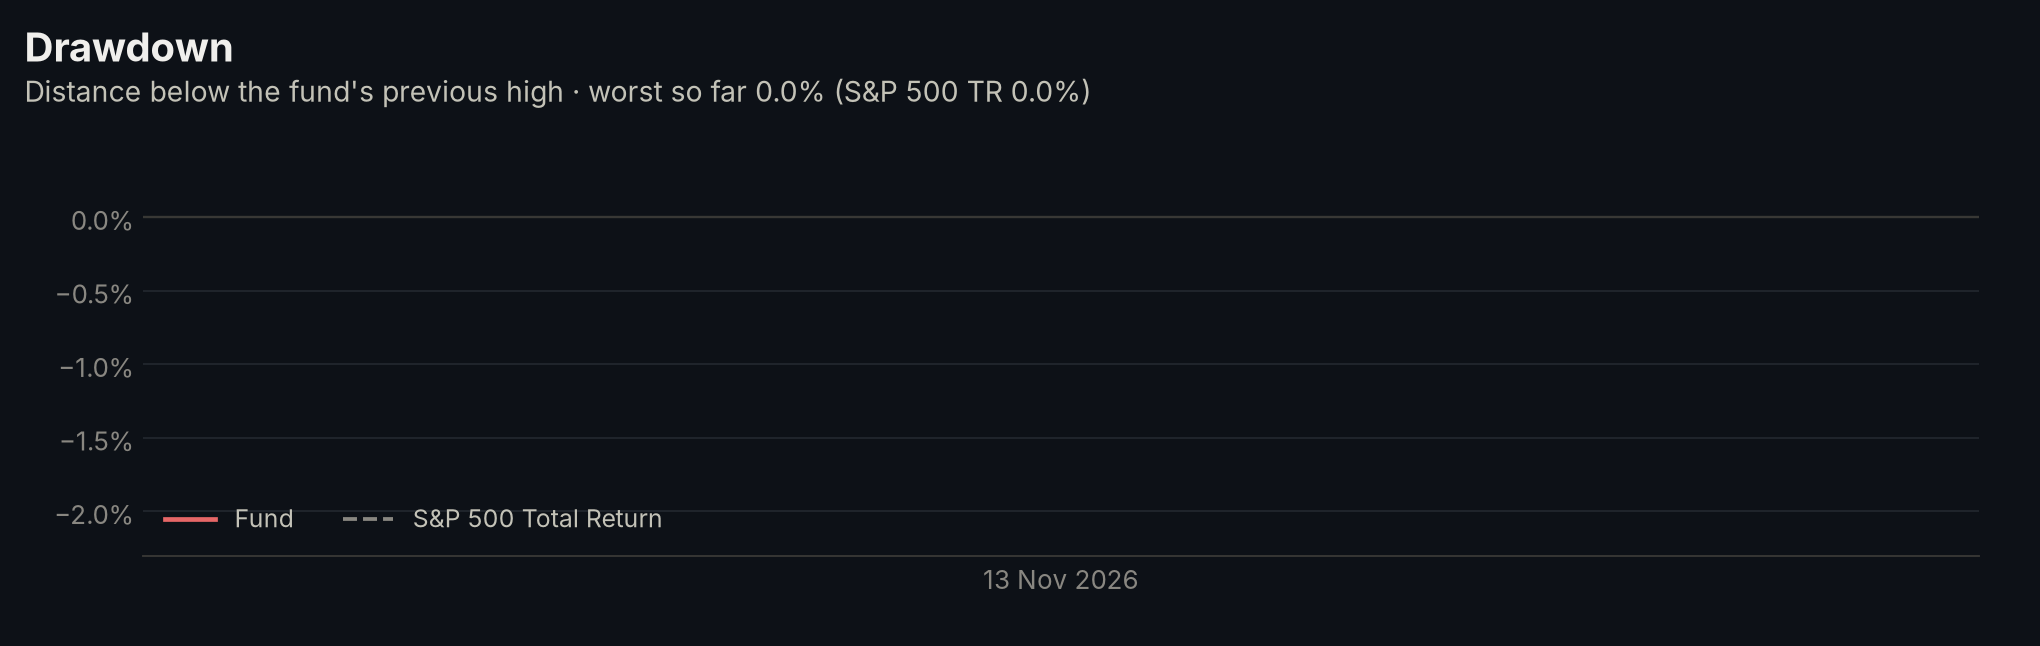
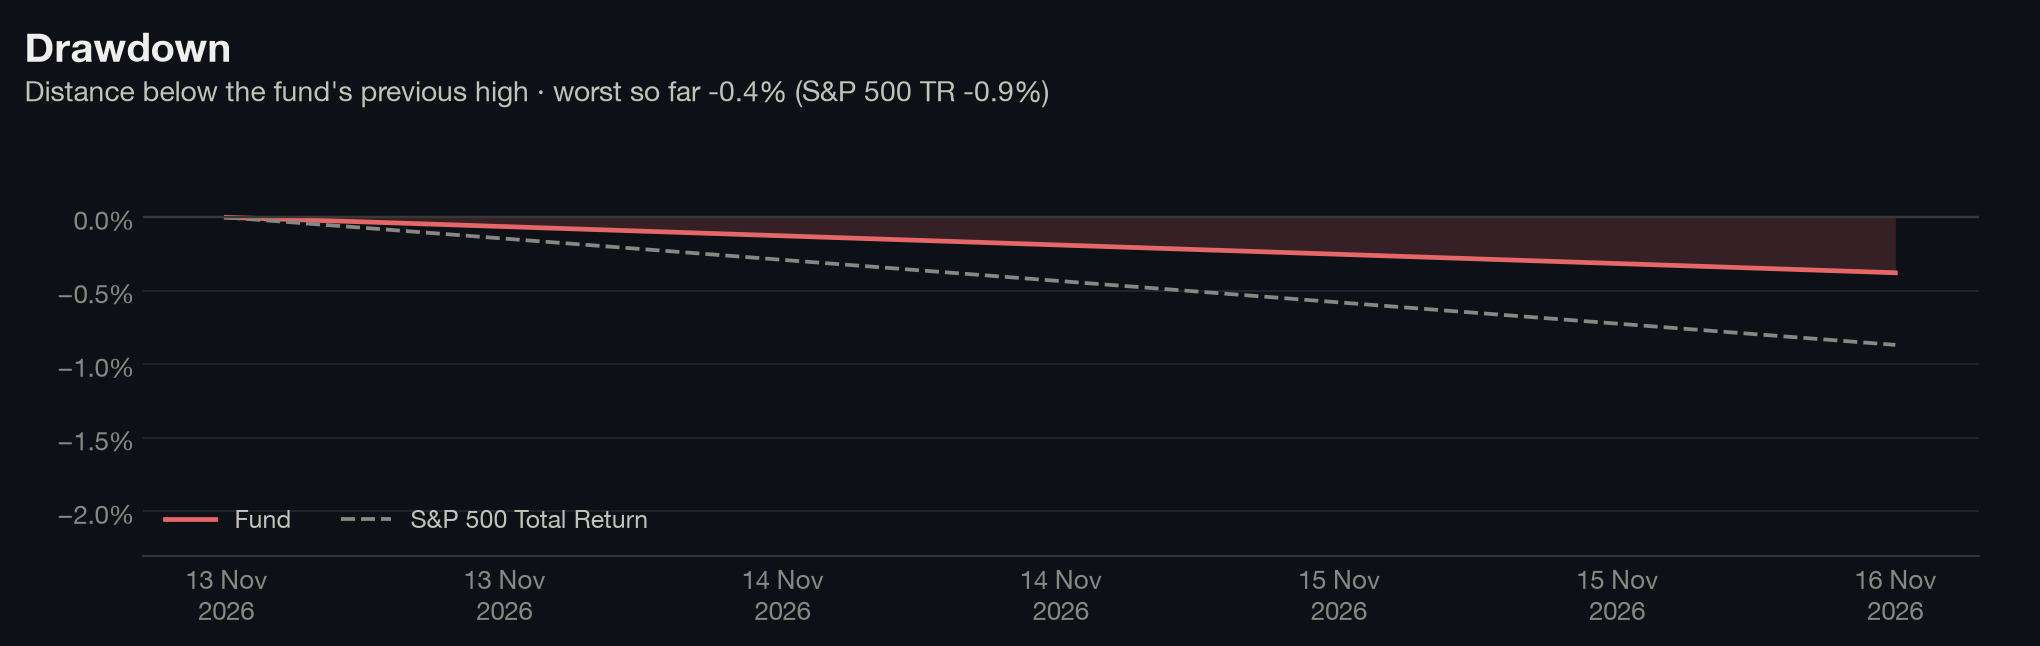
Log the 15 Robinhood fills; measure returns from the inception close

diff --git a/tools/track/nav.py b/tools/track/nav.py
@@ -4,7 +4,8 @@ Positions come from portfolio/trade_log.csv. If the log is still empty, the
 fund is modelled as the target allocation bought at the inception-day close,
 and every output is marked mode="model" so it is never mistaken for real fills.
 
-Returns are time-weighted: r_t = NAV_t / (NAV_{t-1} + new money_t) - 1, so
+Returns start at the first close (fund and benchmark on the same footing) and
+are time-weighted: r_t = NAV_t / (NAV_{t-1} + new money_t) - 1, so
 adding cash later does not count as performance. Dividends are credited as
 cash on the ex-date using shares held the day before (Robinhood pays on the
 pay date, so this is an estimate for the gap between the two).
@@ -89,7 +90,9 @@ def main() -> int:
         mv = sum(shares[n] * prices.at[d, n] for n in names)
         nav = mv + cash
         base = prev_nav + flow
-        r = nav / base - 1 if base > 0 else 0.0
+        # First day: fund and index both start at that close, so fill-to-close
+        # moves aren't counted against an index that only starts at the close.
+        r = nav / base - 1 if prev_nav > 0 else 0.0
         rows.append(dict(date=d.date(), market_value=mv, cash=cash, nav=nav,
                          net_contributions=contributed, daily_return=r,
                          benchmark_close=prices.at[d, BENCH]))

diff --git a/tools/track/readme.py b/tools/track/readme.py
@@ -144,7 +144,7 @@ flowchart LR
 
 - **Schedule:** every weekday at 21:30 UTC (4:30 pm New York in winter, 5:30 pm in summer), after the close. Market holidays add no row.
 - **Positions:** rebuilt each run from [`portfolio/trade_log.csv`](portfolio/trade_log.csv), so a new trade only needs one line in that file.
-- **Returns:** time-weighted (new money is not counted as performance). Dividends are credited on the ex-date as an estimate of cash the broker pays on the pay date.
+- **Returns:** fund and index are both measured from the inception-day close, then time-weighted (new money is not counted as performance). P&L per holding is measured from the actual fill price. Dividends are credited on the ex-date as an estimate of cash the broker pays on the pay date.
 - **Data files:** [`tracking/nav.csv`](tracking/nav.csv) (daily NAV and index levels), [`tracking/prices.csv`](tracking/prices.csv), [`tracking/holdings.csv`](tracking/holdings.csv), [`tracking/summary.json`](tracking/summary.json).
 - **Audit trail:** each daily commit is a timestamped record of the portfolio, so the track record can't be backfilled or edited after the fact without it showing in the history.
 

diff --git a/README.md b/README.md
@@ -4,49 +4,46 @@
 
 **A $100, 15-stock US equity fund picked by written rules from Bloomberg data, tracked daily against the S&P 500 Total Return.**
 
-[![daily update](https://github.com/robcarlson006/15-stock-fund/actions/workflows/daily-update.yml/badge.svg)](https://github.com/robcarlson006/15-stock-fund/actions/workflows/daily-update.yml) ![fund](https://img.shields.io/badge/fund-%2B0.00%25-2a78d6?style=flat-square) ![vs S&P 500 Total Return](https://img.shields.io/badge/vs_S%26P_500_Total_Return-%2B0.00_pts-2ea44f?style=flat-square) ![as of](https://img.shields.io/badge/as_of-2026--11--13-555?style=flat-square) ![holdings](https://img.shields.io/badge/holdings-15-555?style=flat-square)
+![fund](https://img.shields.io/badge/fund-%E2%88%920.38%25-2a78d6?style=flat-square) ![vs S&P 500 Total Return](https://img.shields.io/badge/vs_S%26P_500_Total_Return-%2B0.49_pts-2ea44f?style=flat-square) ![as of](https://img.shields.io/badge/as_of-2026--11--16-555?style=flat-square) ![holdings](https://img.shields.io/badge/holdings-15-555?style=flat-square)
 
 </div>
-
-> [!NOTE]
-> Positions are currently **modelled** as the target dollar amounts bought at the 13 Nov 2026 close. They switch to the actual Robinhood fills as soon as [`portfolio/trade_log.csv`](portfolio/trade_log.csv) is filled in.
 
 ## Performance
 
 | NAV | Since inception | S&P 500 Total Return | Excess return | Last session |
 |:--:|:--:|:--:|:--:|:--:|
-| **$100.00** | **+0.00%** | +0.00% | **+0.00 pts** | +0.00% vs +0.00% |
+| **$100.12** | **−0.38%** | −0.87% | **+0.49 pts** | −0.38% vs −0.87% |
 
 | Max drawdown | Volatility | Sharpe | Beta | Tracking error | Days beating index | Dividends | Days tracked |
 |:--:|:--:|:--:|:--:|:--:|:--:|:--:|:--:|
-| 0.00% | _after 5 days_ | _20d+_ | _20d+_ | _20d+_ | — | $0.00 | 1 |
+| −0.38% | _after 5 days_ | _20d+_ | _20d+_ | _20d+_ | 100% | $0.00 | 2 |
 
 <picture>
   <source media="(prefers-color-scheme: dark)" srcset="assets/charts/performance-dark.png">
   <img alt="Cumulative return of the fund vs the S&P 500 Total Return" src="assets/charts/performance-light.png" width="100%">
 </picture>
 
-<sub>Updated automatically after every US market close. Time-weighted returns, dividends included; benchmark is the S&P 500 Total Return index (^SP500TR). Data as of 13 Nov 2026.</sub>
+<sub>Updated automatically after every US market close. Time-weighted returns, dividends included; benchmark is the S&P 500 Total Return index (^SP500TR). Data as of 16 Nov 2026.</sub>
 
 ## Holdings
 
 | | Ticker | Company | Sector | Weight | Target | Price | Return | P&L |
 |--:|:--|:--|:--|--:|--:|--:|--:|--:|
-| 1 | **BKNG** | Booking Holdings | Cons. Discretionary | 8.0% | 8% | $159.58 | +0.0% | +$0.00 |
-| 2 | **COST** | Costco | Cons. Staples | 8.0% | 8% | $1,106.21 | +0.0% | +$0.00 |
-| 3 | **LLY** | Eli Lilly | Health Care | 8.0% | 8% | $1,443.50 | +0.0% | +$0.00 |
-| 4 | **NFLX** | Netflix | Comm. Services | 8.0% | 8% | $62.15 | +0.0% | +$0.00 |
-| 5 | **VRT** | Vertiv | Industrials | 8.0% | 8% | $202.07 | +0.0% | +$0.00 |
-| 6 | **ISRG** | Intuitive Surgical | Health Care | 7.0% | 7% | $443.59 | +0.0% | +$0.00 |
-| 7 | **ADBE** | Adobe | Technology | 7.0% | 7% | $243.08 | +0.0% | +$0.00 |
-| 8 | **PGR** | Progressive | Financials | 7.0% | 7% | $235.78 | +0.0% | +$0.00 |
-| 9 | **NVO** | Novo Nordisk (ADR) | Health Care | 7.0% | 7% | $41.63 | +0.0% | +$0.00 |
-| 10 | **FICO** | Fair Isaac | Technology | 7.0% | 7% | $720.19 | +0.0% | +$0.00 |
-| 11 | **CEG** | Constellation Energy | Utilities | 5.0% | 5% | $280.20 | +0.0% | +$0.00 |
-| 12 | **FCX** | Freeport-McMoRan | Materials | 5.0% | 5% | $59.24 | +0.0% | +$0.00 |
-| 13 | **JPM** | JPMorgan Chase | Financials | 5.0% | 5% | $346.19 | +0.0% | +$0.00 |
-| 14 | **VST** | Vistra | Utilities | 5.0% | 5% | $133.01 | +0.0% | +$0.00 |
-| 15 | **WPC** | W. P. Carey | Real Estate | 5.0% | 5% | $65.67 | +0.0% | +$0.00 |
+| 1 | **LLY** | Eli Lilly | Health Care | 8.1% | 8% | $1,468.10 | +1.6% | +$0.12 |
+| 2 | **COST** | Costco | Cons. Staples | 8.0% | 8% | $1,114.60 | +0.7% | +$0.05 |
+| 3 | **VRT** | Vertiv | Industrials | 8.0% | 8% | $191.33 | −0.0% | −$0.00 |
+| 4 | **NFLX** | Netflix | Comm. Services | 7.9% | 8% | $61.73 | −0.7% | −$0.05 |
+| 5 | **BKNG** | Booking Holdings | Cons. Discretionary | 7.9% | 8% | $159.47 | −0.9% | −$0.07 |
+| 6 | **NVO** | Novo Nordisk (ADR) | Health Care | 7.0% | 7% | $42.26 | +0.6% | +$0.04 |
+| 7 | **ADBE** | Adobe | Technology | 7.0% | 7% | $244.06 | +0.6% | +$0.04 |
+| 8 | **ISRG** | Intuitive Surgical | Health Care | 7.0% | 7% | $445.20 | +0.2% | +$0.01 |
+| 9 | **PGR** | Progressive | Financials | 7.0% | 7% | $238.62 | −0.1% | −$0.01 |
+| 10 | **FICO** | Fair Isaac | Technology | 6.9% | 7% | $716.09 | −1.9% | −$0.14 |
+| 11 | **CEG** | Constellation Energy | Utilities | 5.1% | 5% | $279.00 | +0.8% | +$0.04 |
+| 12 | **VST** | Vistra | Utilities | 5.0% | 5% | $130.35 | +1.0% | +$0.05 |
+| 13 | **WPC** | W. P. Carey | Real Estate | 5.0% | 5% | $66.37 | +0.1% | +$0.00 |
+| 14 | **JPM** | JPMorgan Chase | Financials | 5.0% | 5% | $345.87 | +0.1% | +$0.00 |
+| 15 | **FCX** | Freeport-McMoRan | Materials | 5.0% | 5% | $57.03 | +0.1% | +$0.00 |
 
 <picture>
   <source media="(prefers-color-scheme: dark)" srcset="assets/charts/holdings-dark.png">
@@ -95,7 +92,7 @@ flowchart LR
 
 - **Schedule:** every weekday at 21:30 UTC (4:30 pm New York in winter, 5:30 pm in summer), after the close. Market holidays add no row.
 - **Positions:** rebuilt each run from [`portfolio/trade_log.csv`](portfolio/trade_log.csv), so a new trade only needs one line in that file.
-- **Returns:** time-weighted (new money is not counted as performance). Dividends are credited on the ex-date as an estimate of cash the broker pays on the pay date.
+- **Returns:** fund and index are both measured from the inception-day close, then time-weighted (new money is not counted as performance). P&L per holding is measured from the actual fill price. Dividends are credited on the ex-date as an estimate of cash the broker pays on the pay date.
 - **Data files:** [`tracking/nav.csv`](tracking/nav.csv) (daily NAV and index levels), [`tracking/prices.csv`](tracking/prices.csv), [`tracking/holdings.csv`](tracking/holdings.csv), [`tracking/summary.json`](tracking/summary.json).
 - **Audit trail:** each daily commit is a timestamped record of the portfolio, so the track record can't be backfilled or edited after the fact without it showing in the history.
 

diff --git a/journal/decision-log.md b/journal/decision-log.md
@@ -76,3 +76,7 @@ One dated entry per decision or rule change. Newest at the bottom.
 - **WPC stays, TJX stays first on the bench.** The cash-yield skip for the insurer and REITs was fixed before any result was computed and matches how Stage 1 already treats those sectors. Reversing it after seeing that it costs TJX a place would be changing a rule to fit the outcome. PGR therefore stays at $7 and NFLX at $8.
 - **LLY/NVO and CEG/VST: both names kept in each pair.** The framework's only pair rule is the 0.85 correlation limit, which can't be tested without prices, and the brief says not to invent a substitute. Every limit that can be tested passes (Health Care $22 of $25, AI/data-center $23 of $30, 4 of 4 names).
 - **Follow-up fixed now:** when the price file arrives, the 0.85 test is run on all pairs. If a pair fails, the lower-scored name (NVO in LLY/NVO, CEG in CEG/VST) is replaced by the highest-ranked bench name that fits the limits. No change to `portfolio/target_allocation.csv`.
+
+## 2026-11-13: Fund bought (logged 16 Nov)
+- All 15 bought on Robinhood on 13 Nov, $100.02 total (CEG $5.02, rest exactly on target). Fills from Robinhood order history are in `portfolio/trade_log.csv`.
+- Performance tracking: fund and S&P 500 TR are both measured from the 13 Nov close; per-holding P&L is measured from the fill prices. Daily tracker runs on GitHub Actions.
